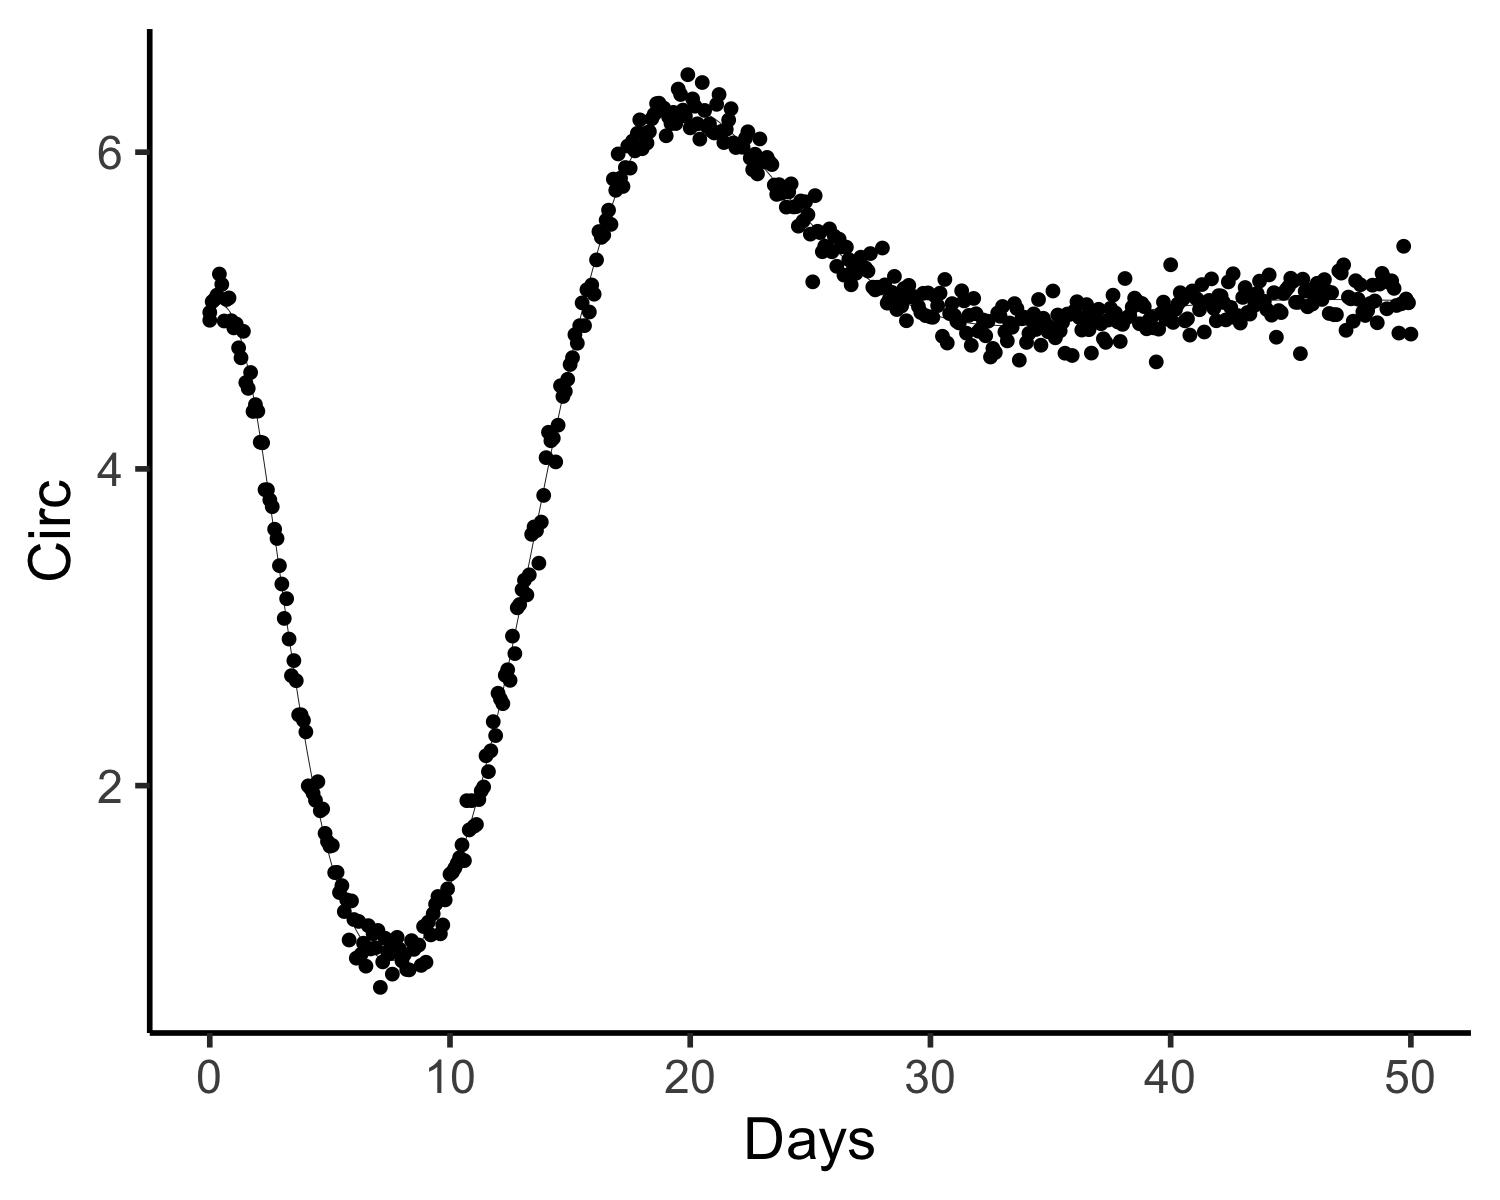
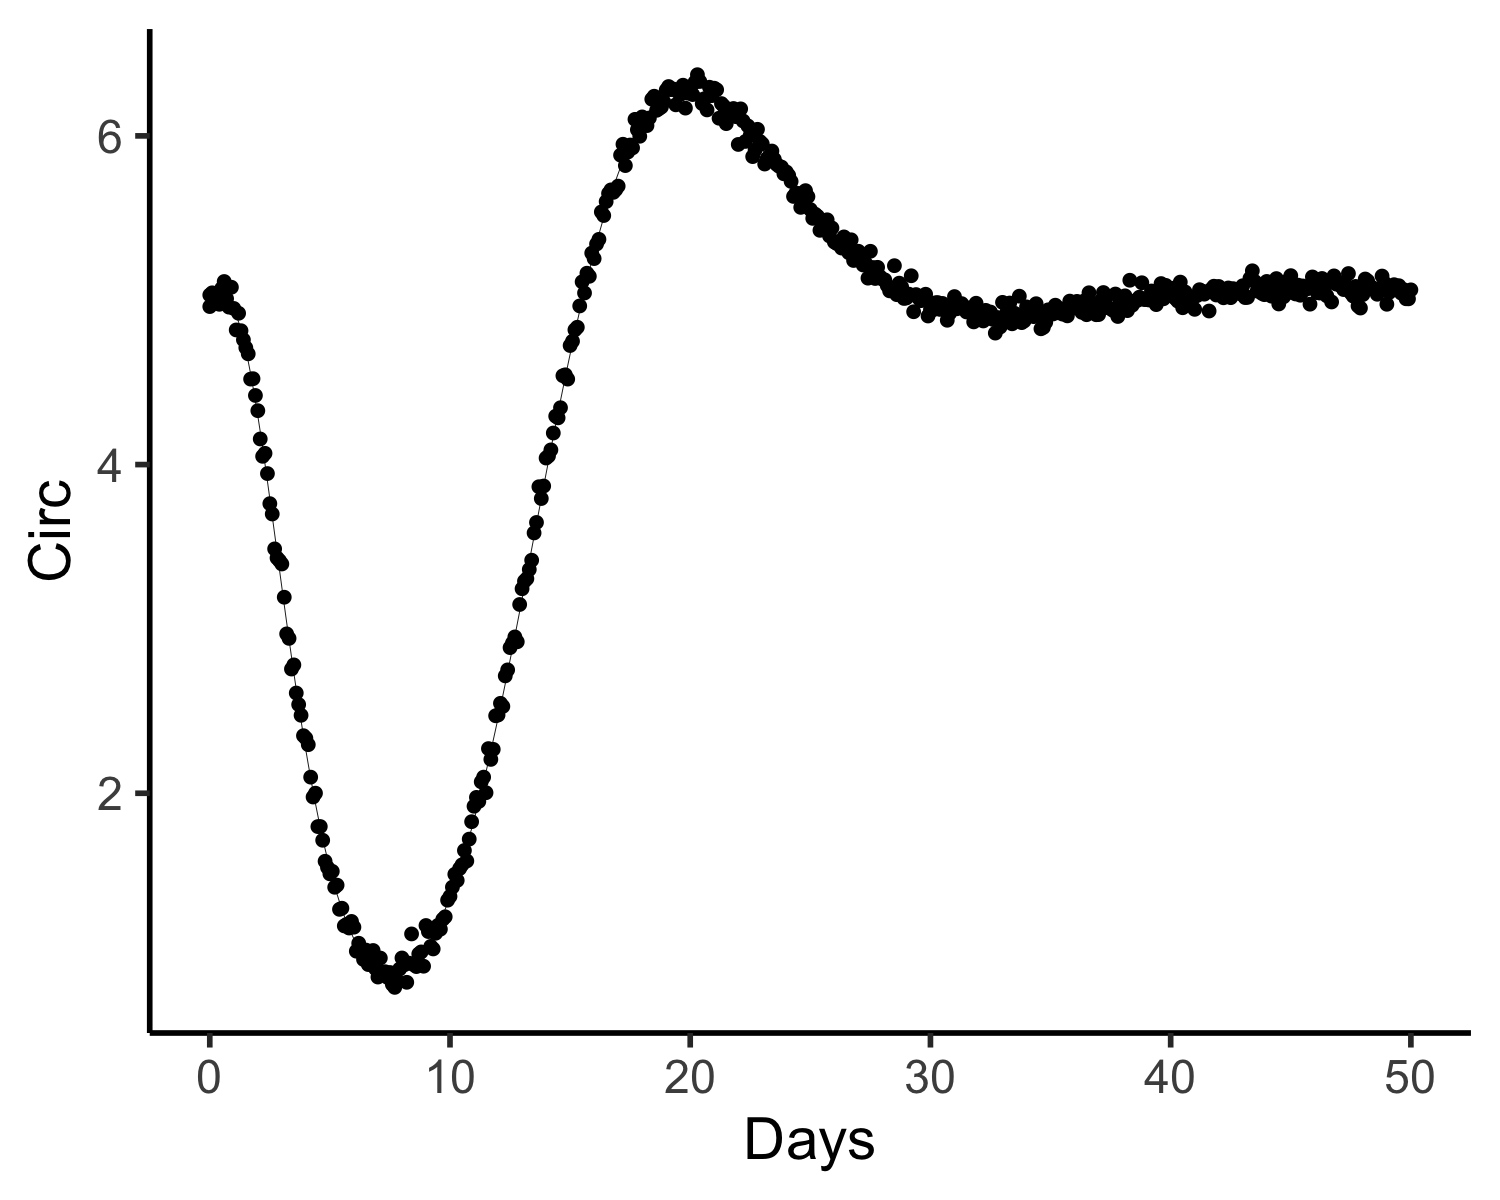
LF 4-param converges with IC off 2-fold if log and nelder-mead

diff --git a/myelo/README.md b/myelo/README.md
@@ -182,13 +182,15 @@ mod%>%ev(e)%>%mrgsim(end = 300, delta = 0.1)%>%plot(xlab="Days")
 ```
 ![](../docs/infus12.png)
 
-To see if we can recover 4 parameters from a simulation, we first simulate some data
+To see if we can recover parameters from a simulation, we first simulate some data
 
 ```
+END=50
+DELTA=.1
+sd=0.05
 (e=ev(time=0,amt=180,cmt=1)) 
-out=mod%>%ev(e)%>%mrgsim(start=0,end = 50, delta = .1)
+out=mod%>%ev(e)%>%mrgsim(start=0,end=END,delta=DELTA)
 d=as.data.frame(out)
-sd=0.1
 d$ANC=d$Circ+rnorm(dim(d)[1],sd=sd)
 d%>%ggplot(aes(x=time,y=Circ))+ geom_line(size=.1)+
   geom_point(aes(x=time,y=ANC),size=1)+gx+tc(14)+sbb
@@ -197,63 +199,69 @@ ggsave("~/GitHubs/myelo/docs/noiseData.png",width=5, height=4)
 ![](../docs/noiseData.png)
 
 
-and then see if FME can retrieve the estimates 
+and then retrieve the estimates with initial guesses 50% higher 
 
 ```
 dput(fribergPars02)
-(pars=c(Circ0 = 5.05, ktr = 1.08229988726043, gam = 0.161, slope = 8.58))# recover 4 params
-LF=function(pars) {
-  evnt=ev(time=0,amt=180,cmt=1,Circ0=pars["Circ0"],ktr=pars["ktr"],gam=pars["gam"],slope=pars["slope"])
-  out=mod%>%ev(evnt)%>%mrgsim(start=0,end = 25, delta = 1)
-  out%>%plot(xlab="Days")
-  as.data.frame(out)
+(pars=c(Circ0 = 5.05, ktr = 1.08229988726043,gam = 0.161, slope = 8.58))
+LF4=function(pars) {
+  evnt=ev(time=0,amt=180,cmt=1,Circ0=pars["Circ0"],ktr=pars["ktr"],gam=pars["gam"],slope=pars["slope"],
+          Prol_0=pars["Circ0"],Trans1_0=pars["Circ0"],Trans2_0=pars["Circ0"],
+          Trans3_0=pars["Circ0"],Circ_0=pars["Circ0"] )
+  as.data.frame(mod%>%ev(evnt)%>%mrgsim(start=0,end = END, delta = DELTA))
 }
-D=LF(pars)%>%select(time,Circ)
-dd=d%>%select(time,Circ=ANC)
-library(FME)
-LFcost <- function (pars) {
-  out=LF(pars)%>%select(time,Circ)
-  modCost(model = out, obs = dd,sd=sd)
+D=LF4(pars)%>%select(time,Circ)
+dd=d%>%select(time,Circ=ANC)%>%mutate(sd=sd)
+LF4cost <- function (pars) {
+  out=LF4(pars)%>%select(time,Circ)
+  modCost(model = out, obs = dd, err = "sd")
 }
-(Fit <- modFit(f = PHcost, p = 1.5*pars))
-pars
-coef(Fit)
-1.5*pars
-summary(Fit)
+parsIC=2*pars
+LF4cost2 <- function(lpars)  LF4cost(exp(lpars))
+Fit <- modFit(f = LF4cost2, p = log(parsIC),method="Nelder-Mead") #crashes without log
+data.frame(parsIC,fit=exp(coef(Fit)),trueVals=pars)
+(s=summary(Fit))
+data.frame(point=exp(s$par[,1]),
+           lowCI=exp(s$par[,1]-1.96*s$par[,2]),
+           hiCI=exp(s$par[,1]+1.96*s$par[,2])  )
 ```
 
-The output of this below shows that while the 1st three parameters moved in the
-correct direction, the fourth did not. Strong negative correlation between gamma and slope 
-hints at the problem: stronger chemo can look weaker if ANC control is stronger.
+The output of this is shown below.
+
 ```
-> pars
- Circ0    ktr    gam  slope 
-5.0500 1.0823 0.1610 8.5800 
-> coef(Fit)
-     Circ0        ktr        gam      slope 
- 4.4233503  1.4563017  0.1647432 27.0110295 
-> 1.5*pars
-   Circ0      ktr      gam    slope 
- 7.57500  1.62345  0.24150 12.87000 
-> summary(Fit)
+> data.frame(parsIC,fit=exp(coef(Fit)),trueVals=pars)
+       parsIC       fit trueVals
+Circ0 10.1000 5.0541353   5.0500
+ktr    2.1646 1.0809904   1.0823
+gam    0.3220 0.1611887   0.1610
+slope 17.1600 8.5477287   8.5800
+> (s=summary(Fit))
 
 Parameters:
-       Estimate Std. Error t value Pr(>|t|)    
-Circ0  4.423350   0.138695   31.89   <2e-16 ***
-ktr    1.456302   0.033024   44.10   <2e-16 ***
-gam    0.164743   0.006138   26.84   <2e-16 ***
-slope 27.011029   0.832308   32.45   <2e-16 ***
+        Estimate Std. Error  t value Pr(>|t|)    
+Circ0  1.6202068  0.0005684  2850.42   <2e-16 ***
+ktr    0.0778777  0.0013110    59.41   <2e-16 ***
+gam   -1.8251797  0.0018221 -1001.68   <2e-16 ***
+slope  2.1456656  0.0028347   756.94   <2e-16 ***
 ---
 Signif. codes:  0 ‘***’ 0.001 ‘**’ 0.01 ‘*’ 0.05 ‘.’ 0.1 ‘ ’ 1
 
-Residual standard error: 1.572 on 248 degrees of freedom
+Residual standard error: 1.025 on 498 degrees of freedom
 
 Parameter correlation:
-        Circ0     ktr     gam   slope
-Circ0  1.0000 -0.6384  0.3664 -0.5419
-ktr   -0.6384  1.0000  0.4584 -0.2954
-gam    0.3664  0.4584  1.0000 -0.9570
-slope -0.5419 -0.2954 -0.9570  1.0000
+        Circ0     ktr      gam    slope
+Circ0  1.0000  0.2437 -0.44243 -0.12102
+ktr    0.2437  1.0000 -0.84473  0.23152
+gam   -0.4424 -0.8447  1.00000 -0.09001
+slope -0.1210  0.2315 -0.09001  1.00000
+> data.frame(point=exp(s$par[,1]),
++            lowCI=exp(s$par[,1]-1.96*s$par[,2]),
++            hiCI=exp(s$par[,1]+1.96*s$par[,2])  )
+          point    lowCI      hiCI
+Circ0 5.0541353 5.048508 5.0597692
+ktr   1.0809904 1.078216 1.0837716
+gam   0.1611887 0.160614 0.1617654
+slope 8.5477287 8.500370 8.5953517
 ```
 
 
